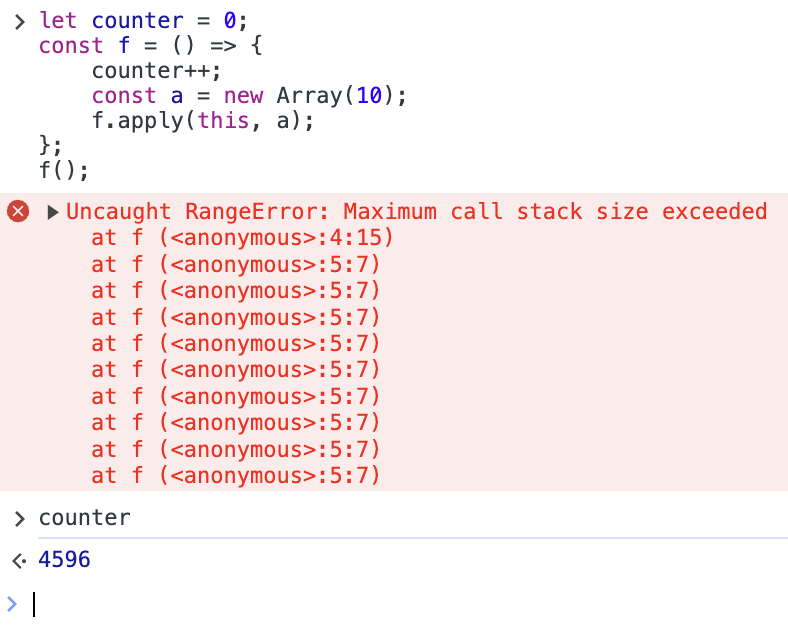
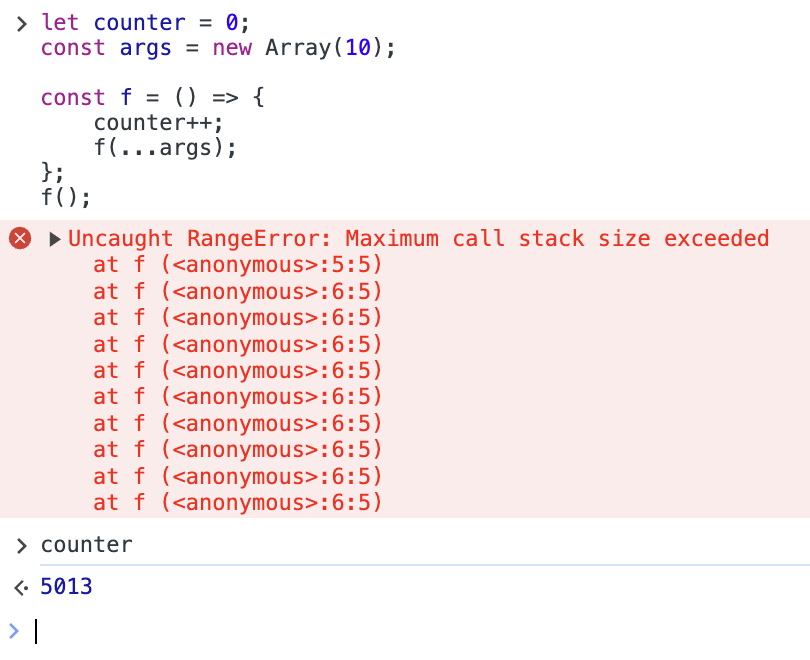
M

diff --git a/_posts/2023-12-04-Maximm-Call-Stack-Size-Exceeded.md b/_posts/2023-12-04-Maximm-Call-Stack-Size-Exceeded.md
@@ -181,10 +181,11 @@ f();
 
 ```javascript
 let counter = 0;
+const args = new Array(10);
+
 const f = () => {
     counter++;
-    const a = new Array(10);
-    f.apply(this, a);
+    f(...args);
 };
 f();
 ```
@@ -193,7 +194,7 @@ f();
 
 ![引数 10 個で無限再帰](./img/stackoverflow006.png)
 
-実行してみた結果がこちらです。ご覧の通り、4596 回まで減りました。
+実行してみた結果がこちらです。ご覧の通り、5013 回まで減りました。
 
 ## ローカル変数を増やす
 
@@ -232,10 +233,11 @@ f();
 
 ```javascript
 let counter = 0;
+const args = new Array(10000);
+
 const f = () => {
     counter++;
-    const a = new Array(10000);
-    f.apply(this, a);
+    f(...args);
 };
 f();
 ```
@@ -321,3 +323,17 @@ console.log(await sum(100000));
 この方法は完全に邪道です。そもそも Stack Overflow の時に例外が投げられる仕様はありませんし、 `Promise.resolve()` の呼び出し時に再度例外が起こってもおかしくないです（もっともこのコードの場合、それでもおそらく動いちゃうのですが）。上記コードの場合、投げられた例外は全部拾ってしまうのですが、どのような例外が投げられるのかはブラウザ依存なので、このようなやり方にせざるを得ません。例外の message もブラウザで違います（Firefox の場合は `InternalError: too much recursion` となります）。
 
 ただ一方で、合法なプログラムでもあるので、こういう逃げ方が出来る、ということを覚えておくと、ちょっとした計算をさせている時などに役に立つかもしれないですね。プロダクションなど大事なプログラムでは、このようなコードは書かないことを強く勧めます。
+
+# 追記: 末尾再帰について
+
+はてブのコメントで指摘されたので、末尾再帰についても書いておきます。
+
+末尾再帰（[Wikipedia のリンク](https://ja.wikipedia.org/wiki/%E6%9C%AB%E5%B0%BE%E5%86%8D%E5%B8%B0)）と呼ばれる、関数の最後で再帰が呼ばれるパターンについては、機械的にループに置き換えられることが知られています。ループに変換してしまえば、Stack Overflow は起こり得ません。一部の処理系では言語仕様レベルで導入されています。
+
+JavaScript では、過去に言語レベルで末尾再帰をループに変換する仕様が議論されたことがあったようですが、残念ながら今のところ実現されていないようです。
+
+<iframe class="speakerdeck-iframe" frameborder="0" src="https://speakerdeck.com/player/b7efe2f944a84c468b77d28f094a3085" title="末尾呼び出し最適化とJavaScript" allowfullscreen="true" style="border: 0px; background: padding-box padding-box rgba(0, 0, 0, 0.1); margin: 0px; padding: 0px; border-radius: 6px; box-shadow: rgba(0, 0, 0, 0.2) 0px 5px 40px; width: 100%; height: auto; aspect-ratio: 560 / 315;" data-ratio="1.7777777777777777"></iframe>
+
+[@kota_yata](https://twitter.com/kota_yata) さんが素晴らしい資料を用意されているので、興味のある方は是非ご一読ください。
+
+<!-- このスライドは、 [@h_sakurai](https://twitter.com/h_sakurai) さんに情報をいただきました！ありがとうございます！ -->
